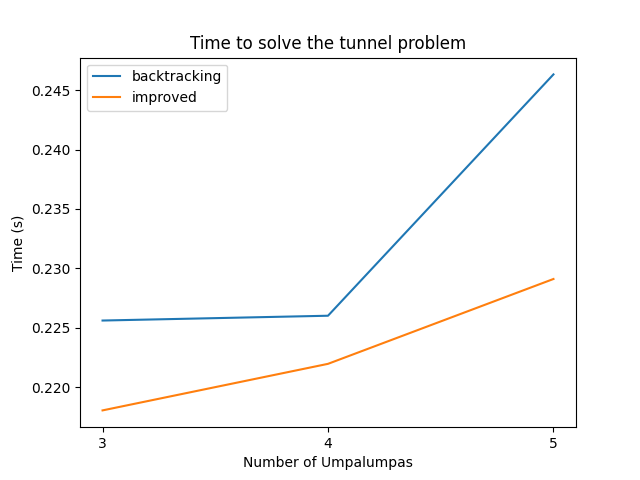
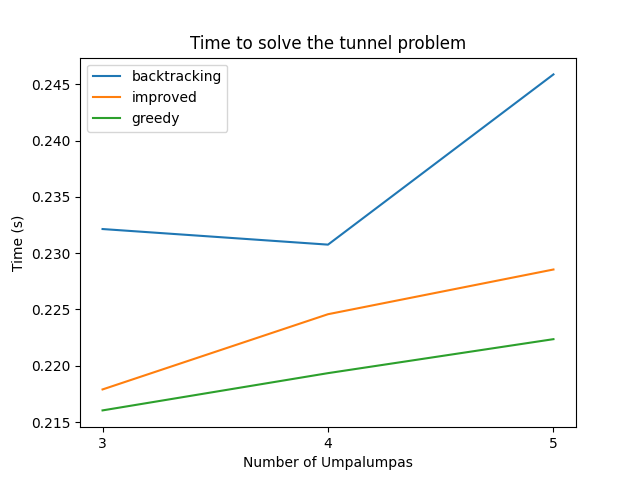
implement greedy

diff --git a/practica2/tunnel.py b/practica2/tunnel.py
@@ -72,6 +72,41 @@ def improved( capacitat, fora, dins = [], entrem = True, temps = 0, millor_resul
             millor_resultat = min(millor_resultat, s)
     return millor_resultat
 
+@counted
+def greedy(capacitat, fora, dins = [], entrem = True, temps = 0):
+    if not fora:
+        return temps
+
+    # Ordenem la llista d'elements fora per processar de forma voraç
+    fora.sort()
+
+    # Estratègia voraç: sempre seleccionar els més ràpids
+    if entrem:
+        # Comprovar si hi ha suficients elements per formar una esquadra
+        if len(fora) < capacitat:
+            return 0
+        # Formar la millor esquadra possible (els més ràpids) amb la capacitat permesa
+        esquadra = fora[:capacitat]
+        # Calcular el temps per aquesta esquadra
+        esquadra_time = max(esquadra)
+        # Eliminar els elements de la esquadra dels elements de fora
+        fora = fora[capacitat:]
+        # Afegir la esquadra als elements de dins
+        dins.extend(esquadra)
+        # Actualizar el temps total acumulat
+        temps += esquadra_time
+    else:
+        # Seleccionar l'element més ràpid dins per a que torni
+        umpalumpa = min(dins)
+        # Eliminar aquest element de la llista de dins
+        dins.remove(umpalumpa)
+        # Afegir aquest element a la llista de fora
+        fora.append(umpalumpa)
+        # Actualitzar el temps total acumulat
+        temps += umpalumpa
+
+    # Continuar el procés recursivament canviant l'estat d'entrem
+    return greedy(capacitat, fora, dins, not entrem, temps)
 
 if __name__ == "__main__":
     import argparse
@@ -91,6 +126,10 @@ if __name__ == "__main__":
         solucio = improved( capacitat, umpalumpes )
         solucio = 0 if solucio == float('inf') else solucio
         # print("CALLS:", improved.calls)
+    elif args.algorithm == 'greedy':
+        solucio = greedy( capacitat, umpalumpes )
+        solucio = 0 if solucio == float('inf') else solucio
+        # print("CALLS:", greedy.calls)
     else:
         raise Exception("Unknown algorithm", args.algorithm)
     print(solucio)

diff --git a/practica2/checker.py b/practica2/checker.py
@@ -10,7 +10,7 @@ directory = "tests/"
 xinitial = 3
 xfinal = int(sys.argv[1])
 
-for algorithm in ["backtracking", "improved"]:
+for algorithm in ["backtracking", "improved", "greedy"]:
     times = []
     print("Algorithm: ", algorithm)
     for x in range(xinitial, xfinal + 1):
